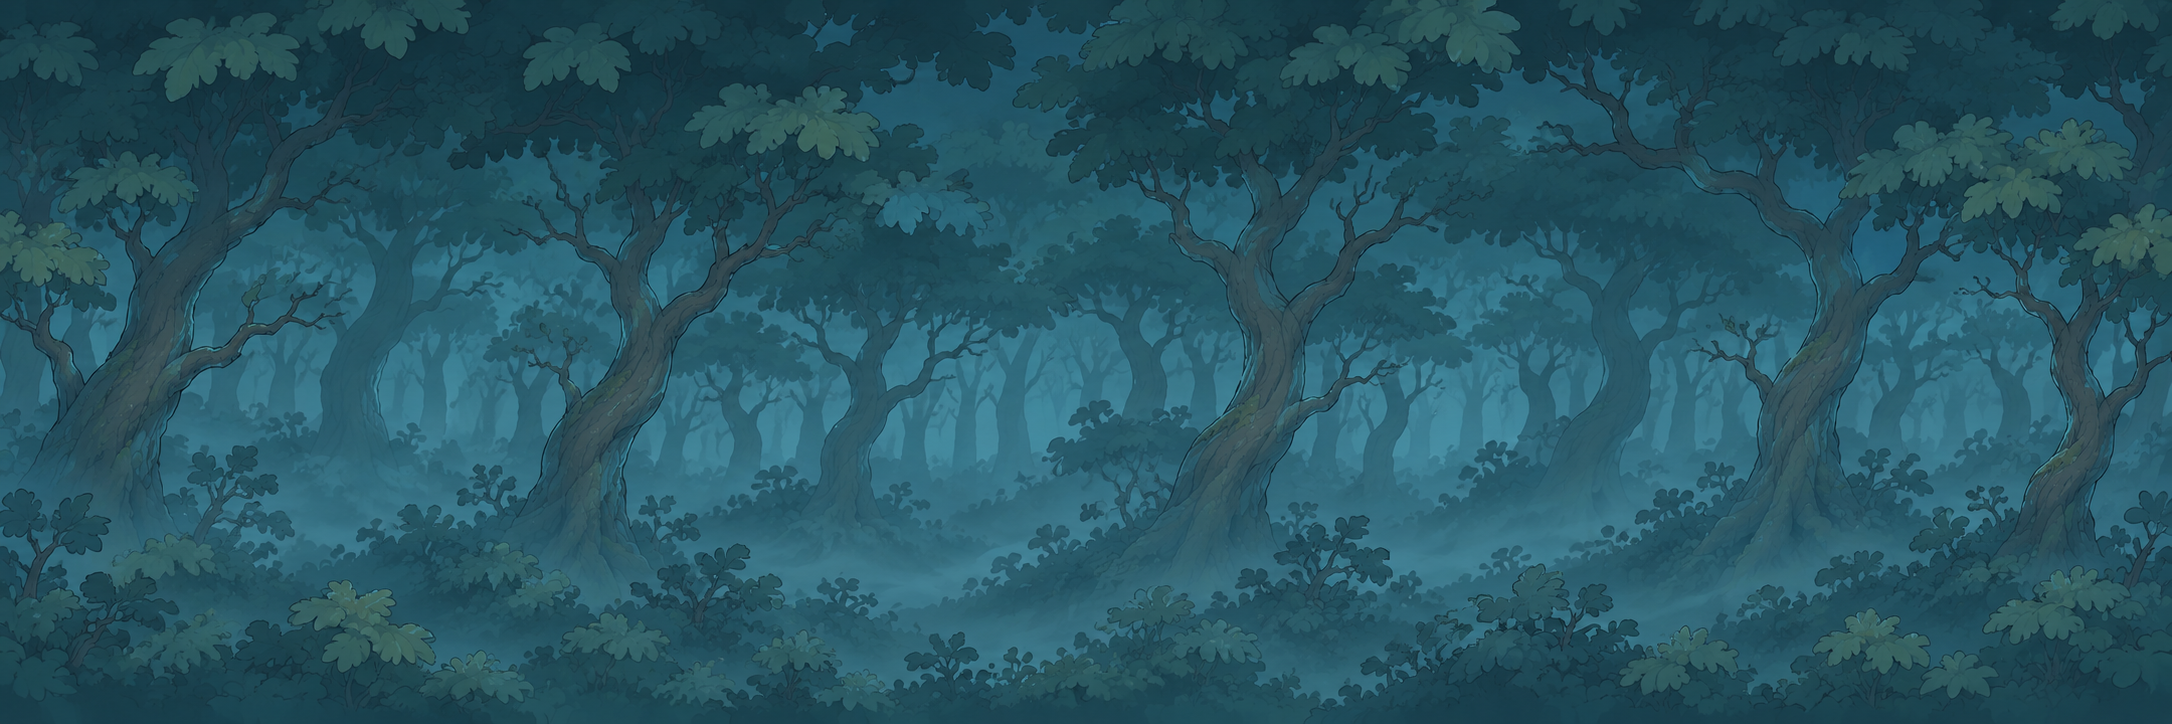
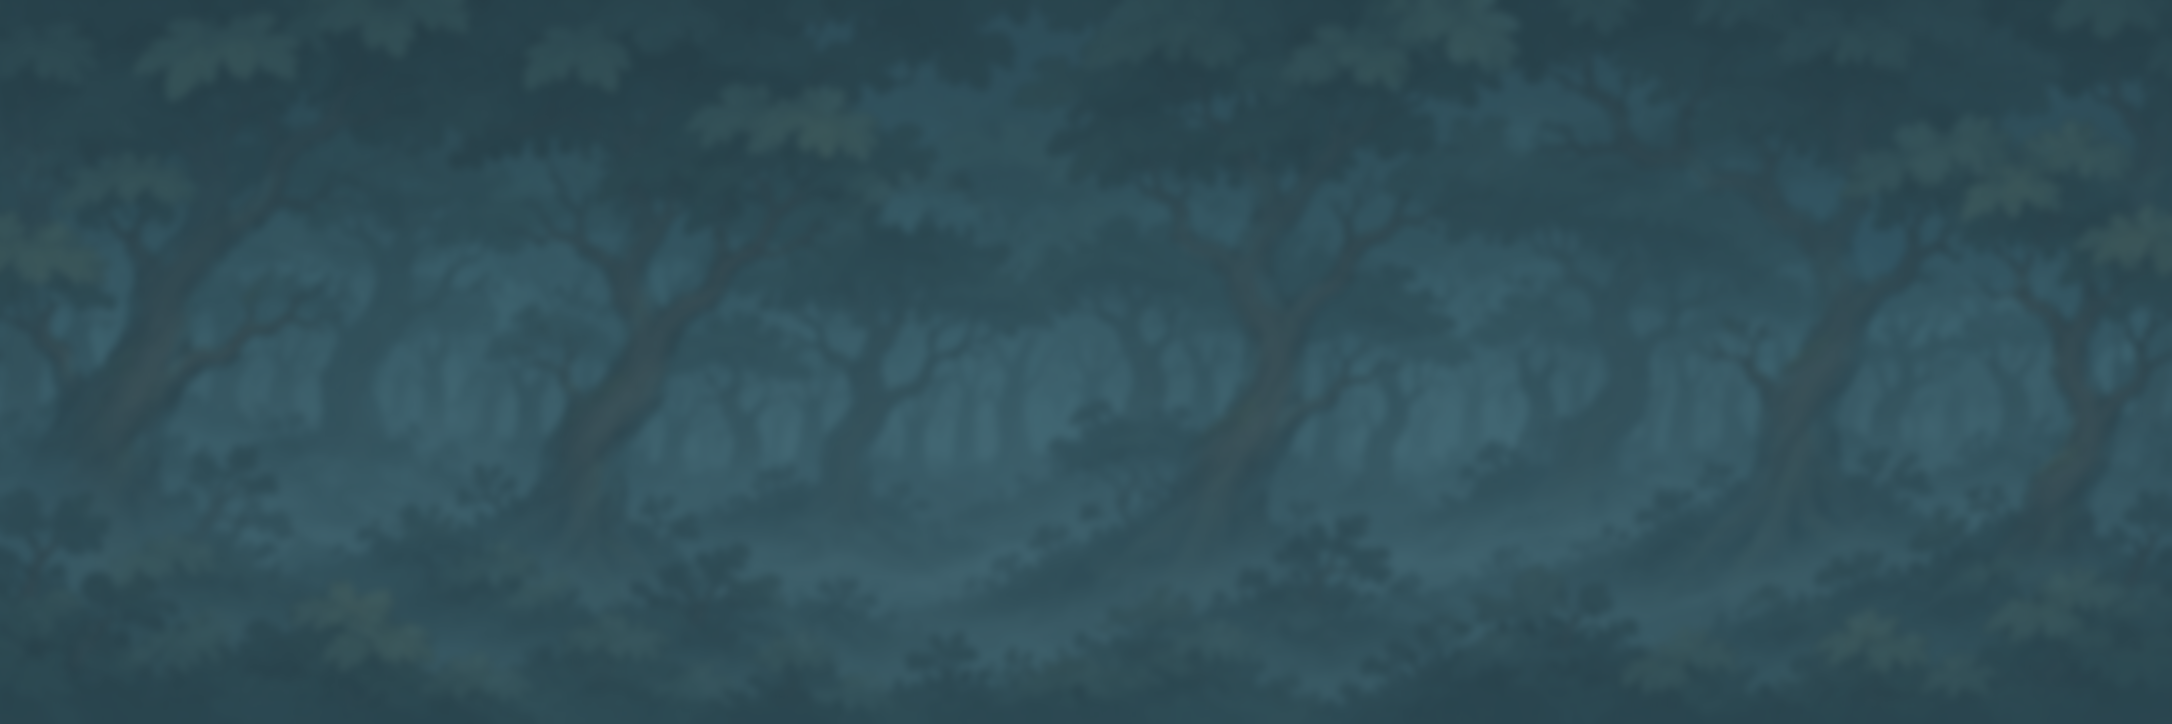
Quiet the backdrop and add an FPS readout
The twilight backdrop carried as much branch detail as the foreground, so
props and characters had to compete with it. Push it back with atmospheric
haze rather than blur alone: a wrap-padded gaussian so the tile seam survives,
then reduced local contrast, reduced saturation and a blend toward the
backdrop's own haze colour. Wrap difference stays at 0.13.

Add an FPS readout in the top right showing rolling average, frame time and
worst frame over each quarter second, tinted green/amber/red by average.
F1 toggles it.

Claude-Session: https://claude.ai/code/session_01HejqDV8hTh4DfG9Y5W1Mw9

diff --git a/Assets/Scripts/Hud.cs b/Assets/Scripts/Hud.cs
@@ -7,7 +7,8 @@ public class Hud : MonoBehaviour
 {
     Game game; Font font; RectTransform root;
     RectTransform hpFill, hpTrail, bossFill, bossPanel, goArrow, combo, promptPanel, titlePanel, deathPanel, victoryPanel, helpPanel, bannerRT, fade;
-    Image[] embers = new Image[3]; Text comboText, bannerText, pressText; Image fadeImg; CanvasGroup titleCg, promptCg, bannerCg, deathCg, victoryCg;
+    Image[] embers = new Image[3]; Text comboText, bannerText, pressText, fpsText;
+    float fpsAccum, fpsWorst; int fpsFrames; bool fpsOn = true; Image fadeImg; CanvasGroup titleCg, promptCg, bannerCg, deathCg, victoryCg;
     float hpShown = 1, trail = 1, comboPunch, manaPulse, bannerT, bannerDur, goT, promptT; bool goOn, titleOn; int lastCombo, promptIdx = -1, shownPrompt = -1; Enemy boss; float bossShown = 1;
     const float HpW = 340, BossW = 820;
 
@@ -90,6 +91,7 @@ public class Hud : MonoBehaviour
 
         // --- combo counter ---
         combo = Rect("Combo", root, TR, new Vector2(-60, -220), new Vector2(400, 120));
+        fpsText = Txt("", root, TR, new Vector2(-14, -10), new Vector2(260, 30), 22, new Color(0.65f, 1f, 0.72f, 0.95f), TextAnchor.UpperRight, new Vector2(1, 1));
         comboText = Txt("", combo, C, Vector2.zero, new Vector2(400, 120), 64, Gold, TextAnchor.MiddleRight);
         Txt("HITS", combo, C, new Vector2(0, -56), new Vector2(400, 40), 26, Cream, TextAnchor.MiddleRight);
         combo.gameObject.SetActive(false);
@@ -214,6 +216,18 @@ public class Hud : MonoBehaviour
     void Update()
     {
         float dt = Time.unscaledDeltaTime; var p = game.player;
+        if (Input.GetKeyDown(KeyCode.F1)) { fpsOn = !fpsOn; fpsText.enabled = fpsOn; }
+        if (fpsOn)
+        {
+            fpsAccum += dt; fpsFrames++; if (dt > fpsWorst) fpsWorst = dt;
+            if (fpsAccum >= 0.25f)
+            {
+                float avg = fpsFrames / fpsAccum;
+                fpsText.text = string.Format("{0:0} fps   {1:0.0} ms   min {2:0}", avg, 1000f * fpsAccum / fpsFrames, 1f / Mathf.Max(fpsWorst, 0.0001f));
+                fpsText.color = avg >= 55 ? new Color(0.65f, 1f, 0.72f, 0.95f) : avg >= 30 ? new Color(1f, 0.88f, 0.5f, 0.95f) : new Color(1f, 0.55f, 0.5f, 0.95f);
+                fpsAccum = 0; fpsFrames = 0; fpsWorst = 0;
+            }
+        }
         // fade in
         if (fadeImg.color.a > 0) { var c = fadeImg.color; c.a = Mathf.MoveTowards(c.a, 0, dt * 1.6f); fadeImg.color = c; if (c.a <= 0) fade.gameObject.SetActive(false); }
         // health
